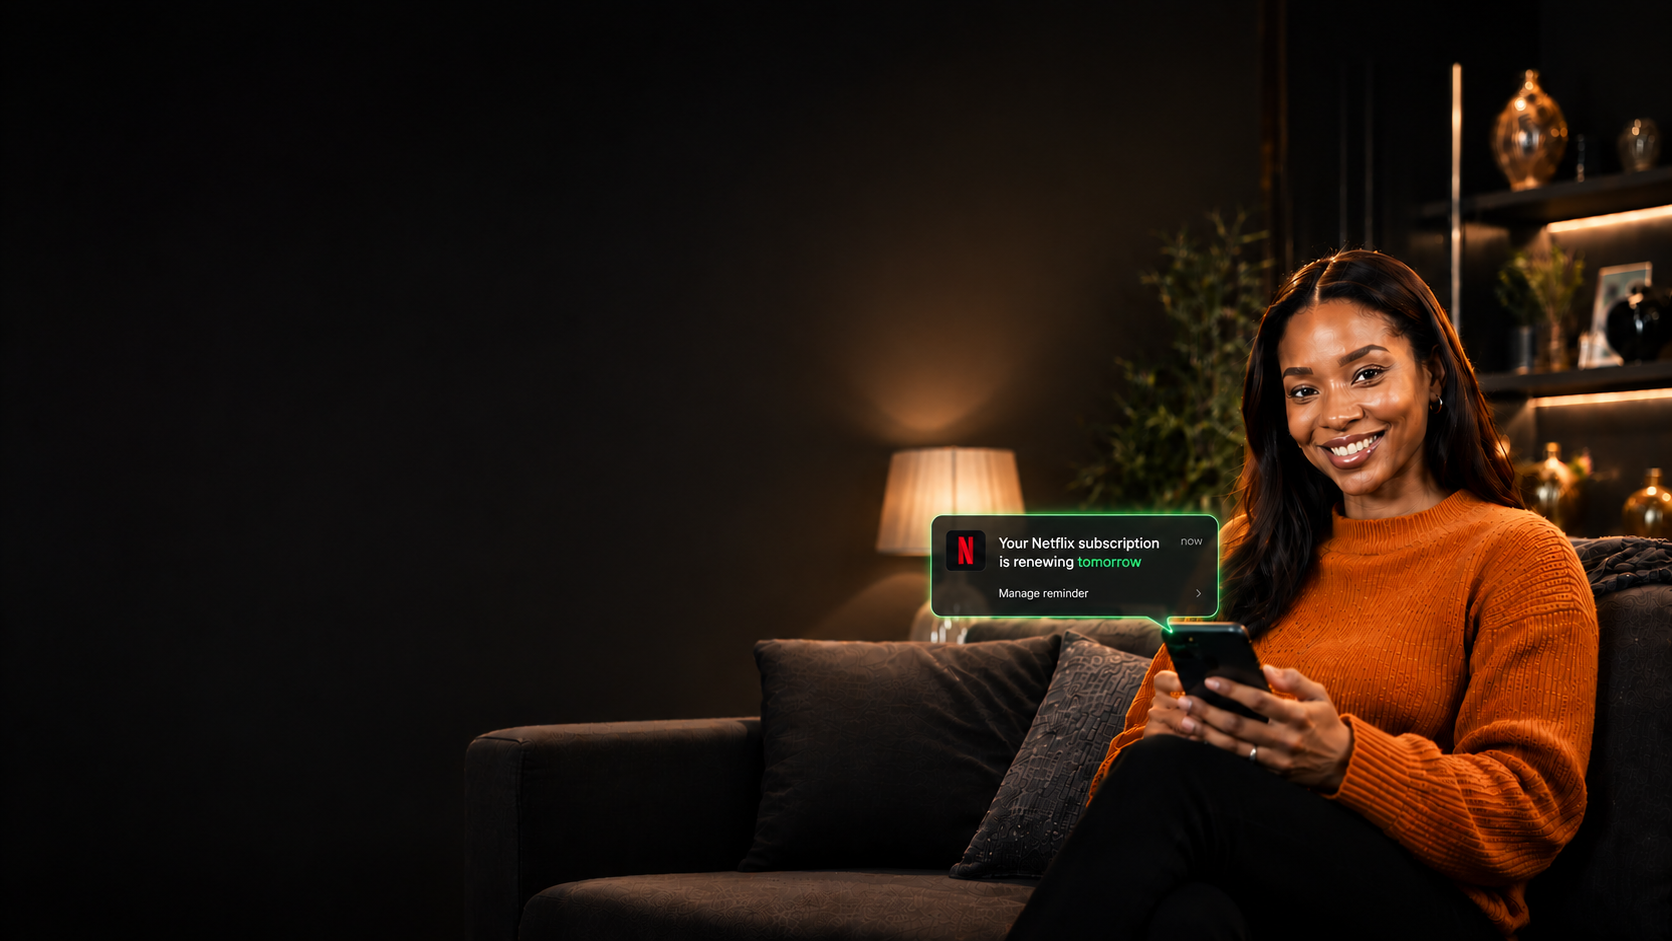
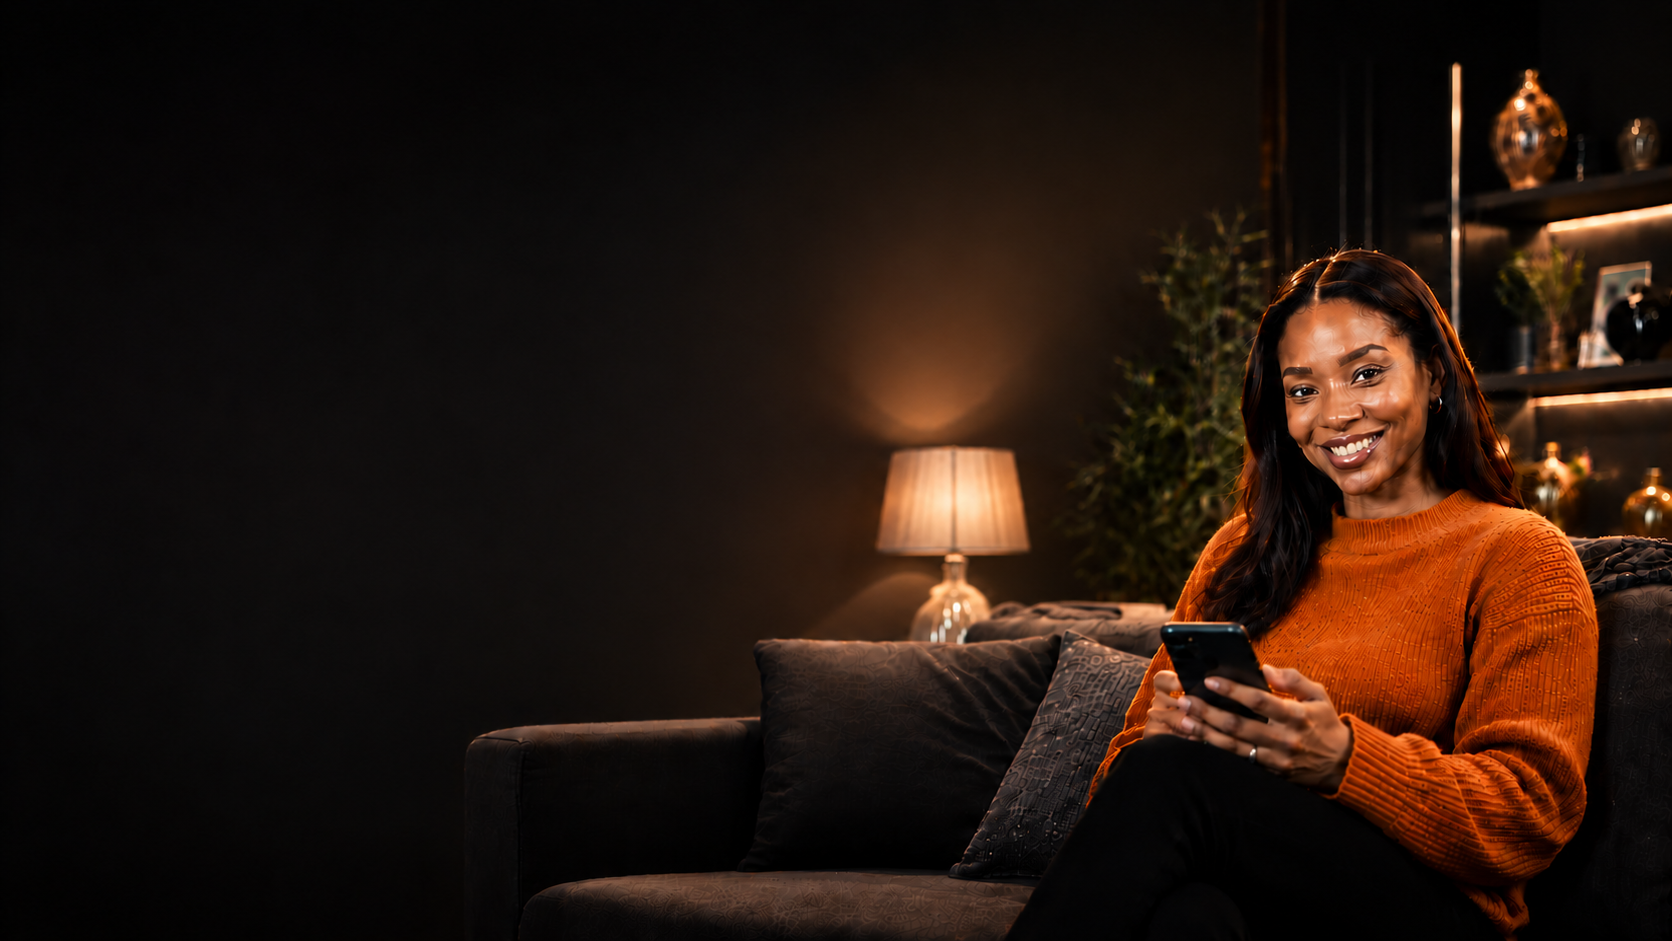
feat(hero): refine mobile responsiveness and soften glow on notification card

diff --git a/client/src/components/Hero.jsx b/client/src/components/Hero.jsx
@@ -1,53 +1,141 @@
 import { useNavigate } from "react-router-dom";
 import heroBg from "../assets/hero-bg.png";
+import mobileHeroBg from "../assets/finora-hero-mobile.png";
 import Button from "./Button";
 
 export default function Hero() {
   const navigate = useNavigate();
   return (
     <section
-      className="relative mt-16 min-h-screen w-full max-w-[1800px] bg-cover bg-[77%_center] bg-no-repeat md:bg-[88%_center] lg:bg-[90%_center]"
-      style={{ backgroundImage: `url(${heroBg})` }}
+      className="relative min-h-screen w-full bg-cover bg-no-repeat"
+      style={{
+        backgroundImage: `url(${heroBg})`,
+        backgroundPosition: "80% center",
+      }}
     >
-      <div className="absolute inset-0 hidden bg-gradient-to-b from-[#121212] via-[#121212]/50 to-transparent"></div>
+      <div className="absolute top-[63%] left-[19%] z-20 -translate-y-1/2 md:top-[62%] md:left-[43%] lg:top-[60%] lg:left-[60%]">
+        <div className="relative w-62 py-2 md:w-72 md:px-5 md:py-4">
+          <div className="absolute inset-0 -z-10 drop-shadow-[0_0_8px_rgba(34,197,94,0.25)] filter">
+            <svg
+              className="h-full w-full"
+              viewBox="0 0 288 120"
+              preserveAspectRatio="none"
+              fill="none"
+              xmlns="http://www.w3.org/2000/svg"
+            >
+              <path
+                d="M 16 0 
+     H 272 
+     A 16 16 0 0 1 288 16 
+     V 80 
+     A 16 16 0 0 1 272 96 
+     H 190 
+     L 174 118 
+     L 162 96 
+     H 16 
+     A 16 16 0 0 1 0 80 
+     V 16 
+     A 16 16 0 0 1 16 0 Z"
+                fill="rgba(0,0,0,0.85)"
+                stroke="rgba(34,197,94,0.45)"
+                strokeWidth="1.8"
+              />
+            </svg>
+          </div>
 
-      <div className="relative z-10 mx-auto flex min-h-[calc(100vh-64px)] w-full max-w-7xl flex-col justify-start px-6 pt-13 pb-8 lg:justify-start lg:px-5 lg:pt-30 lg:pb-0 xl:px-0">
-        <div className="max-w-xl lg:px-6 xl:px-5">
-          <h1 className="mb-4 space-y-3 text-3xl leading-tight font-bold tracking-wide text-white md:text-5xl lg:text-5xl">
+          {/* Content */}
+          <div className="relative z-10 flex items-start gap-3 px-1 pb-1">
+            {/* Netflix Icon Container: Dark background + Red SVG N */}
+            <div className="flex h-10 w-10 shrink-0 items-center justify-center rounded-xl border border-white/10 bg-black shadow-lg">
+              <svg
+                viewBox="0 0 24 24"
+                className="h-6 w-6"
+                xmlns="http://www.w3.org/2000/svg"
+              >
+                <path
+                  d="M5.398 0v24c1.386-.392 2.845-.676 4.362-.845V8.668l5.008 14.823c1.676.135 3.295.42 4.834.845V0h-4.362v13.698L10.196 0z"
+                  fill="#E50914"
+                />
+              </svg>
+            </div>
+
+            <div className="min-w-0 flex-1">
+              <p className="text-[13px] leading-snug font-semibold text-stone-300">
+                Your Netflix subscription is renewing{" "}
+                <span className="text-emerald-400">tomorrow</span>
+              </p>
+              <div className="mt-2 flex items-center justify-between">
+                {/* <span className="text-[11px] text-white/40">
+                  Manage reminder
+                </span> */}
+                <span className="text-[11px] text-white/25">›</span>
+              </div>
+            </div>
+
+            <span className="mt-0.5 shrink-0 text-[10px] font-medium text-white/25">
+              now
+            </span>
+          </div>
+        </div>
+      </div>
+
+      <div className="absolute inset-0 bg-gradient-to-b from-[#0f0e0d]/80 via-[#0f0e0d]/50 to-transparent md:bg-gradient-to-r md:from-[#0f0e0d]/90 md:via-[#0f0e0d]/60 md:to-transparent" />
+
+      <div className="relative z-10 mx-auto flex min-h-screen w-full max-w-[1600px] flex-col justify-start px-6 pt-17 pb-12 md:pt-28 md:pb-0 lg:justify-center lg:px-8 lg:pt-17 xl:px-20">
+        <div className="mt-6 max-w-xs sm:max-w-sm md:mt-20 md:max-w-lg lg:mt-0 lg:max-w-xl">
+          {/* <div className="mb-5 inline-flex items-center gap-2 rounded-full border border-white/10 bg-black/30 px-3 py-1.5 backdrop-blur-sm">
+            <div className="h-1.5 w-1.5 rounded-full bg-[#b37d3e]" />
+            <span className="text-xs font-medium text-white/70">
+              Smart subscription tracking
+            </span>
+          </div> */}
+
+          <h1 className="mb-4 text-4xl leading-tight font-bold tracking-tight text-white sm:text-5xl md:text-5xl lg:text-5xl">
             Your money.
-            <br />{" "}
+            <br />
             <span className="text-[#b37d3e]">
-              Finally <br /> accounted for.
+              Finally
+              <br />
+              accounted for.
             </span>
           </h1>
 
-          <p className="text-md mb-6 leading-relaxed text-gray-300 md:mt-10 md:mb-19 md:text-lg">
+          <p className="mb-8 text-sm leading-relaxed text-white/60 sm:text-base md:mb-10 md:text-lg">
             Track subscriptions, manage expenses, and never be caught off guard
             by unexpected renewals.
           </p>
 
-          <div className="flex flex-col gap-3 sm:flex-row">
-            <Button
-              className="hidden rounded-full bg-[#b37d3e] px-8 py-4 text-lg font-bold text-zinc-950 transition-all duration-200 hover:bg-[#c98d46] md:block"
+          <div className="flex flex-wrap items-center gap-3">
+            <button
               onClick={() => navigate("/Sign-up")}
+              className="rounded-full bg-[#b37d3e] px-6 py-3 text-sm font-bold text-zinc-950 transition-all duration-200 hover:bg-[#c98d46] md:px-8 md:py-4 md:text-base"
             >
               Get started for free
-            </Button>
+            </button>
 
             <a
               href="#how-it-works"
-              className="inline-block w-fit rounded-full border border-gray-500 px-4 py-3 text-center text-base font-bold text-white transition-all duration-200 hover:bg-white/10 md:block lg:px-8 lg:py-4 lg:text-lg"
+              className="rounded-full border border-white/20 bg-white/5 px-6 py-3 text-sm font-bold text-white backdrop-blur-sm transition-all duration-200 hover:bg-white/10 md:px-8 md:py-4 md:text-base"
             >
               See how it works
             </a>
           </div>
         </div>
 
-        <div className="mt-auto flex w-full items-center justify-center pt-10 md:hidden">
-          <Button className="w-fit rounded-full bg-[#b37d3e] py-4 text-base font-bold text-zinc-950 shadow-lg transition-all duration-200 hover:bg-[#c98d46]">
-            Get started for free
-          </Button>
-        </div>
+        {/* <div className="mt-auto flex gap-8 border-t border-white/10 pt-6 md:hidden">
+          <div>
+            <div className="text-lg font-bold text-white">₦12k</div>
+            <div className="text-[10px] text-white/40">avg monthly savings</div>
+          </div>
+          <div>
+            <div className="text-lg font-bold text-white">3 min</div>
+            <div className="text-[10px] text-white/40">to get started</div>
+          </div>
+          <div>
+            <div className="text-lg font-bold text-white">100%</div>
+            <div className="text-[10px] text-white/40">read-only access</div>
+          </div>
+        </div> */}
       </div>
     </section>
   );

diff --git a/client/src/components/Navbar.jsx b/client/src/components/Navbar.jsx
@@ -10,9 +10,9 @@ function Navbar() {
 
   return (
     <header
-      className={`${isOpen ? "h-dvh bg-[#0F0E0D]/98" : ""} max-w- fixed top-0 z-50 h-16 w-full bg-[#0F0E0D] lg:h-16`}
+      className={`${isOpen ? "h-dvh bg-[#0F0E0D]/98" : ""} max-w- fixed top-0 z-50 h-16 w-full max-w-[1600px] bg-[#0F0E0D] lg:h-16`}
     >
-      <nav className="mx-auto flex h-16 w-full items-center justify-between gap-4 px-4 py-4 text-sm text-gray-200 md:px-6 lg:gap-8 lg:text-base">
+      <nav className="mx-auto flex h-16 w-full items-center justify-between gap-4 px-4 py-4 text-sm text-gray-200 md:px-6 lg:gap-8 lg:text-base xl:px-18">
         <span className="text-2xl font-bold tracking-[0.15em] uppercase md:tracking-[0.2em] lg:tracking-[0.3em]">
           Finora
         </span>

diff --git a/client/src/index.css b/client/src/index.css
@@ -10,6 +10,21 @@
   }
 }
 
+.hero-bg {
+  background-position: 65% center;
+}
+
+@media (min-width: 768px) {
+  .hero-bg {
+    background-position: 75% center;
+  }
+}
+
+@media (min-width: 1024px) {
+  .hero-bg {
+    background-position: 85% center;
+  }
+}
 html {
   scroll-behavior: smooth;
 }

diff --git a/client/src/layouts/MainLayout.jsx b/client/src/layouts/MainLayout.jsx
@@ -7,7 +7,7 @@ import Footer from "../components/Footer";
 
 export default function MainLayout() {
   return (
-    <div className="max-w-[1800px] divide-amber-300">
+    <div className="mx-auto max-w-[1800px] divide-amber-300">
       <Navbar />
       <Hero />
       <Features />
